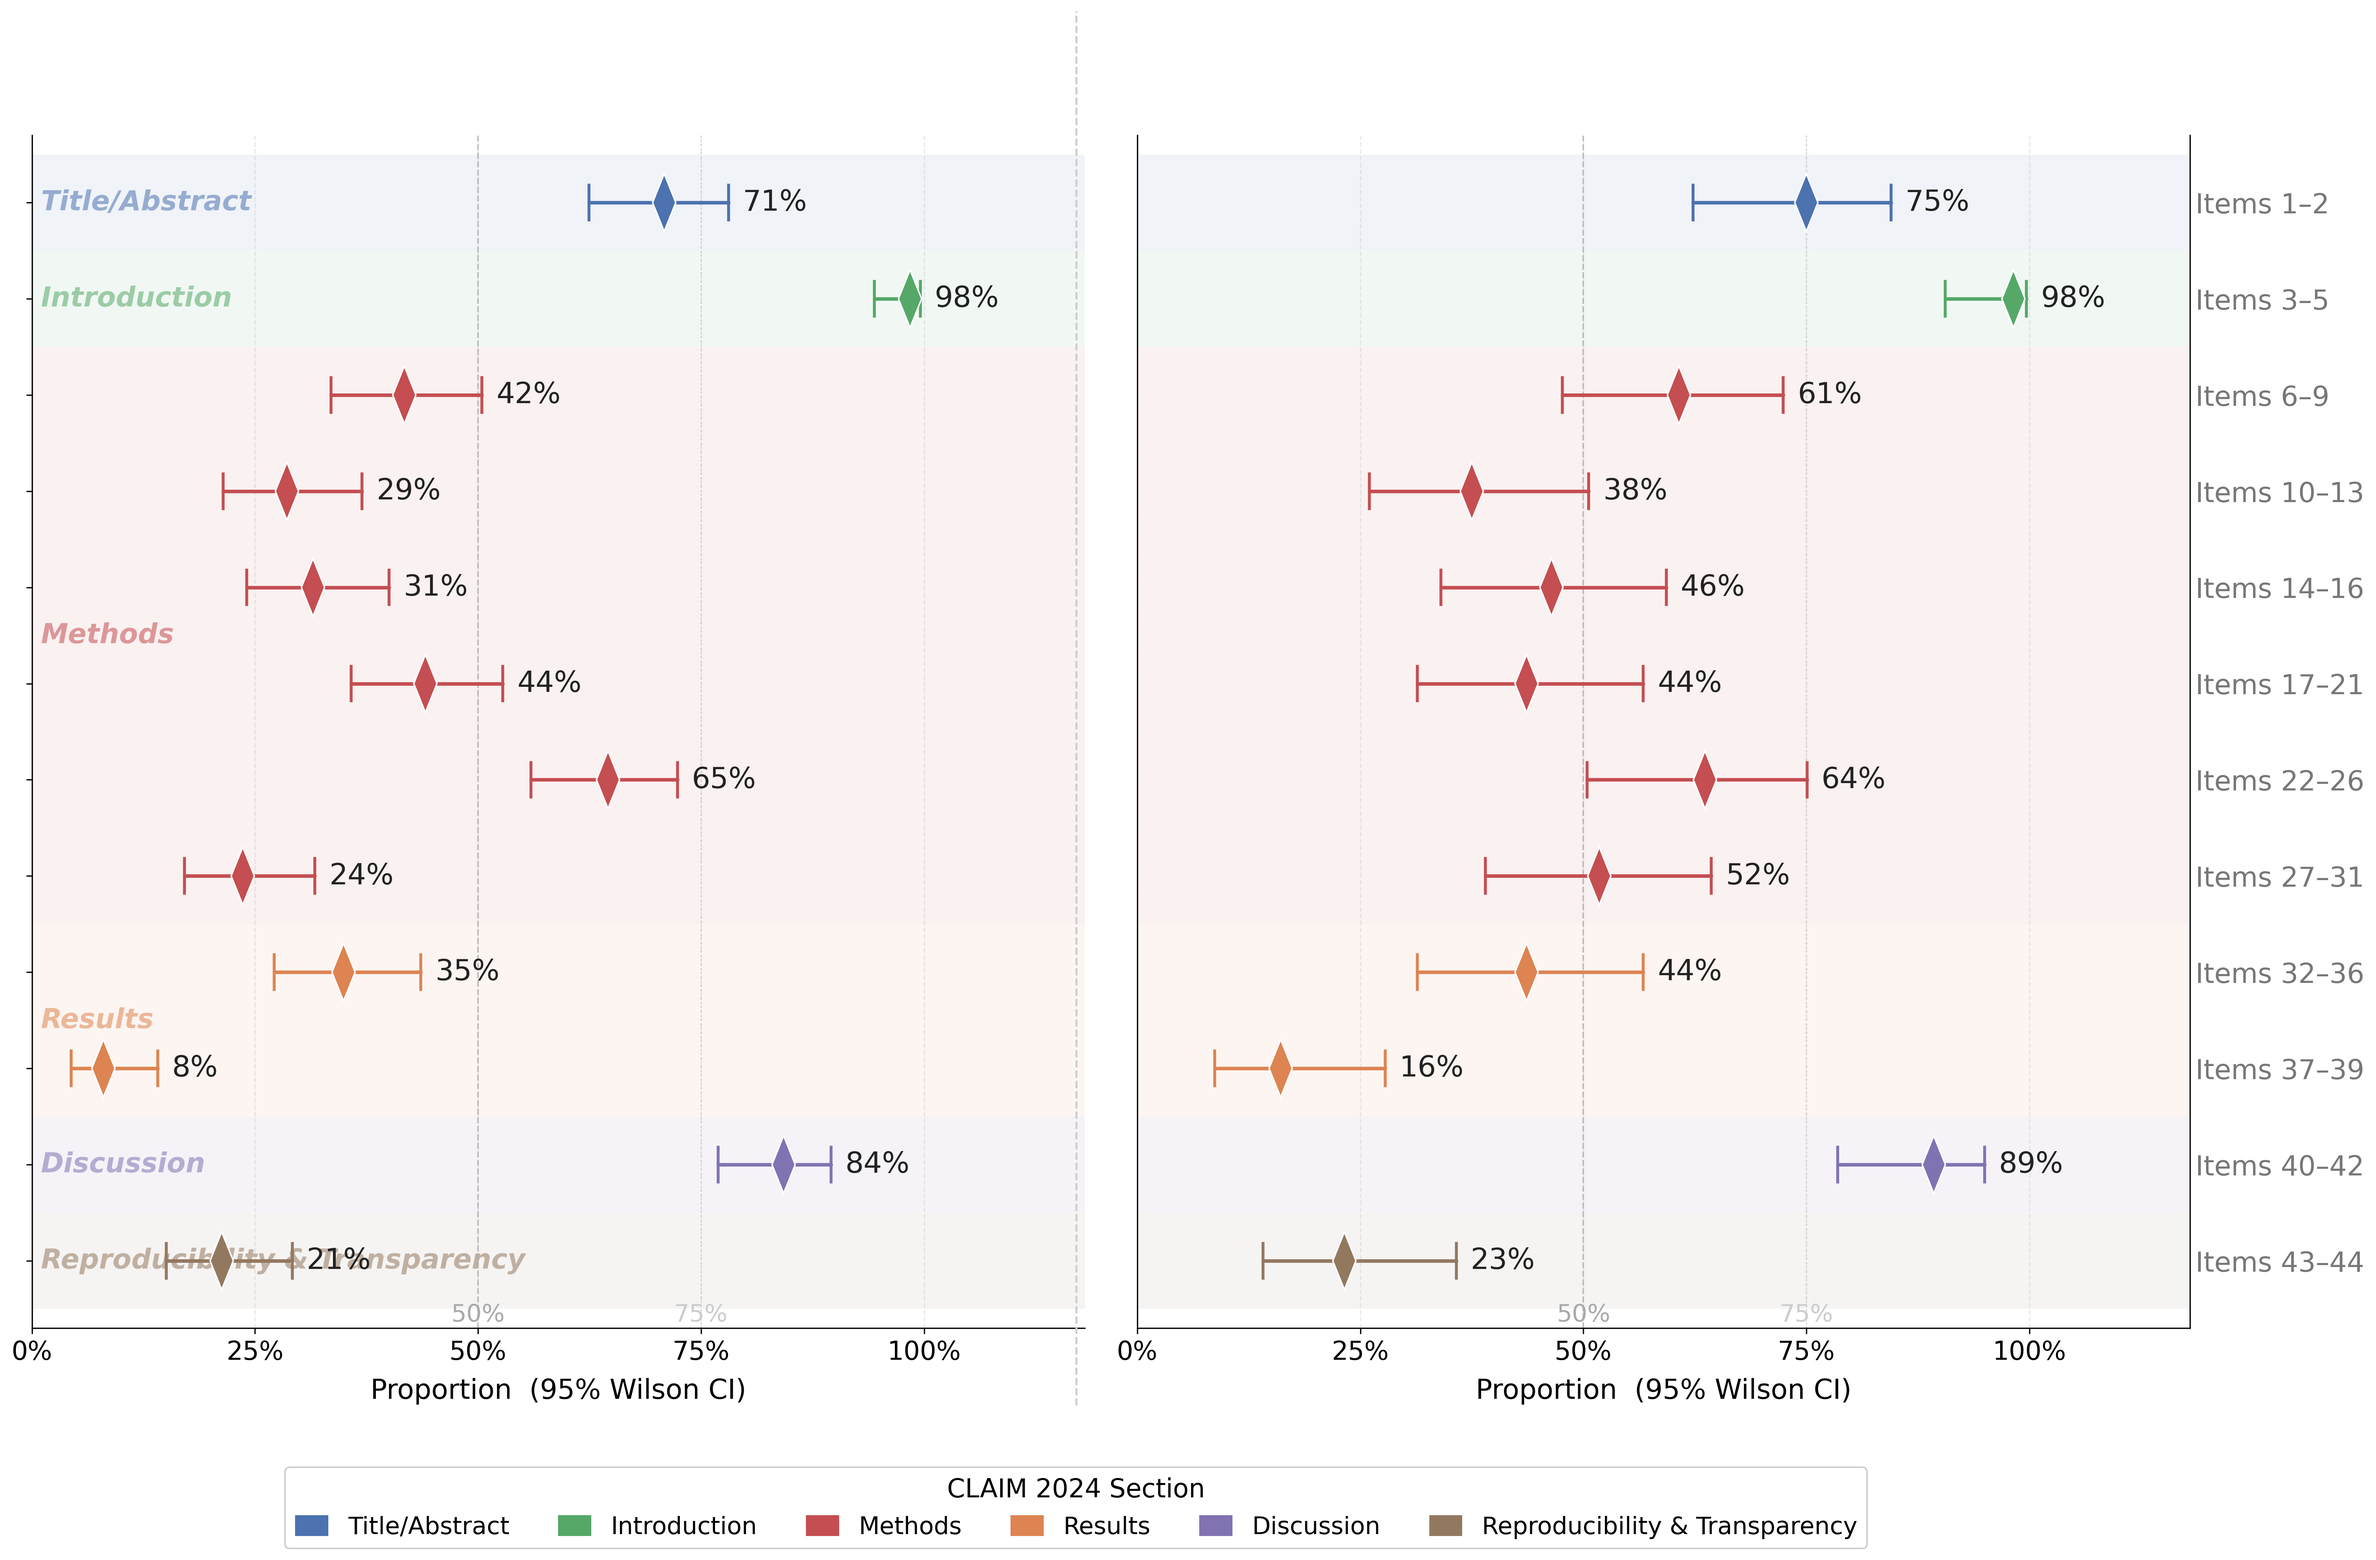
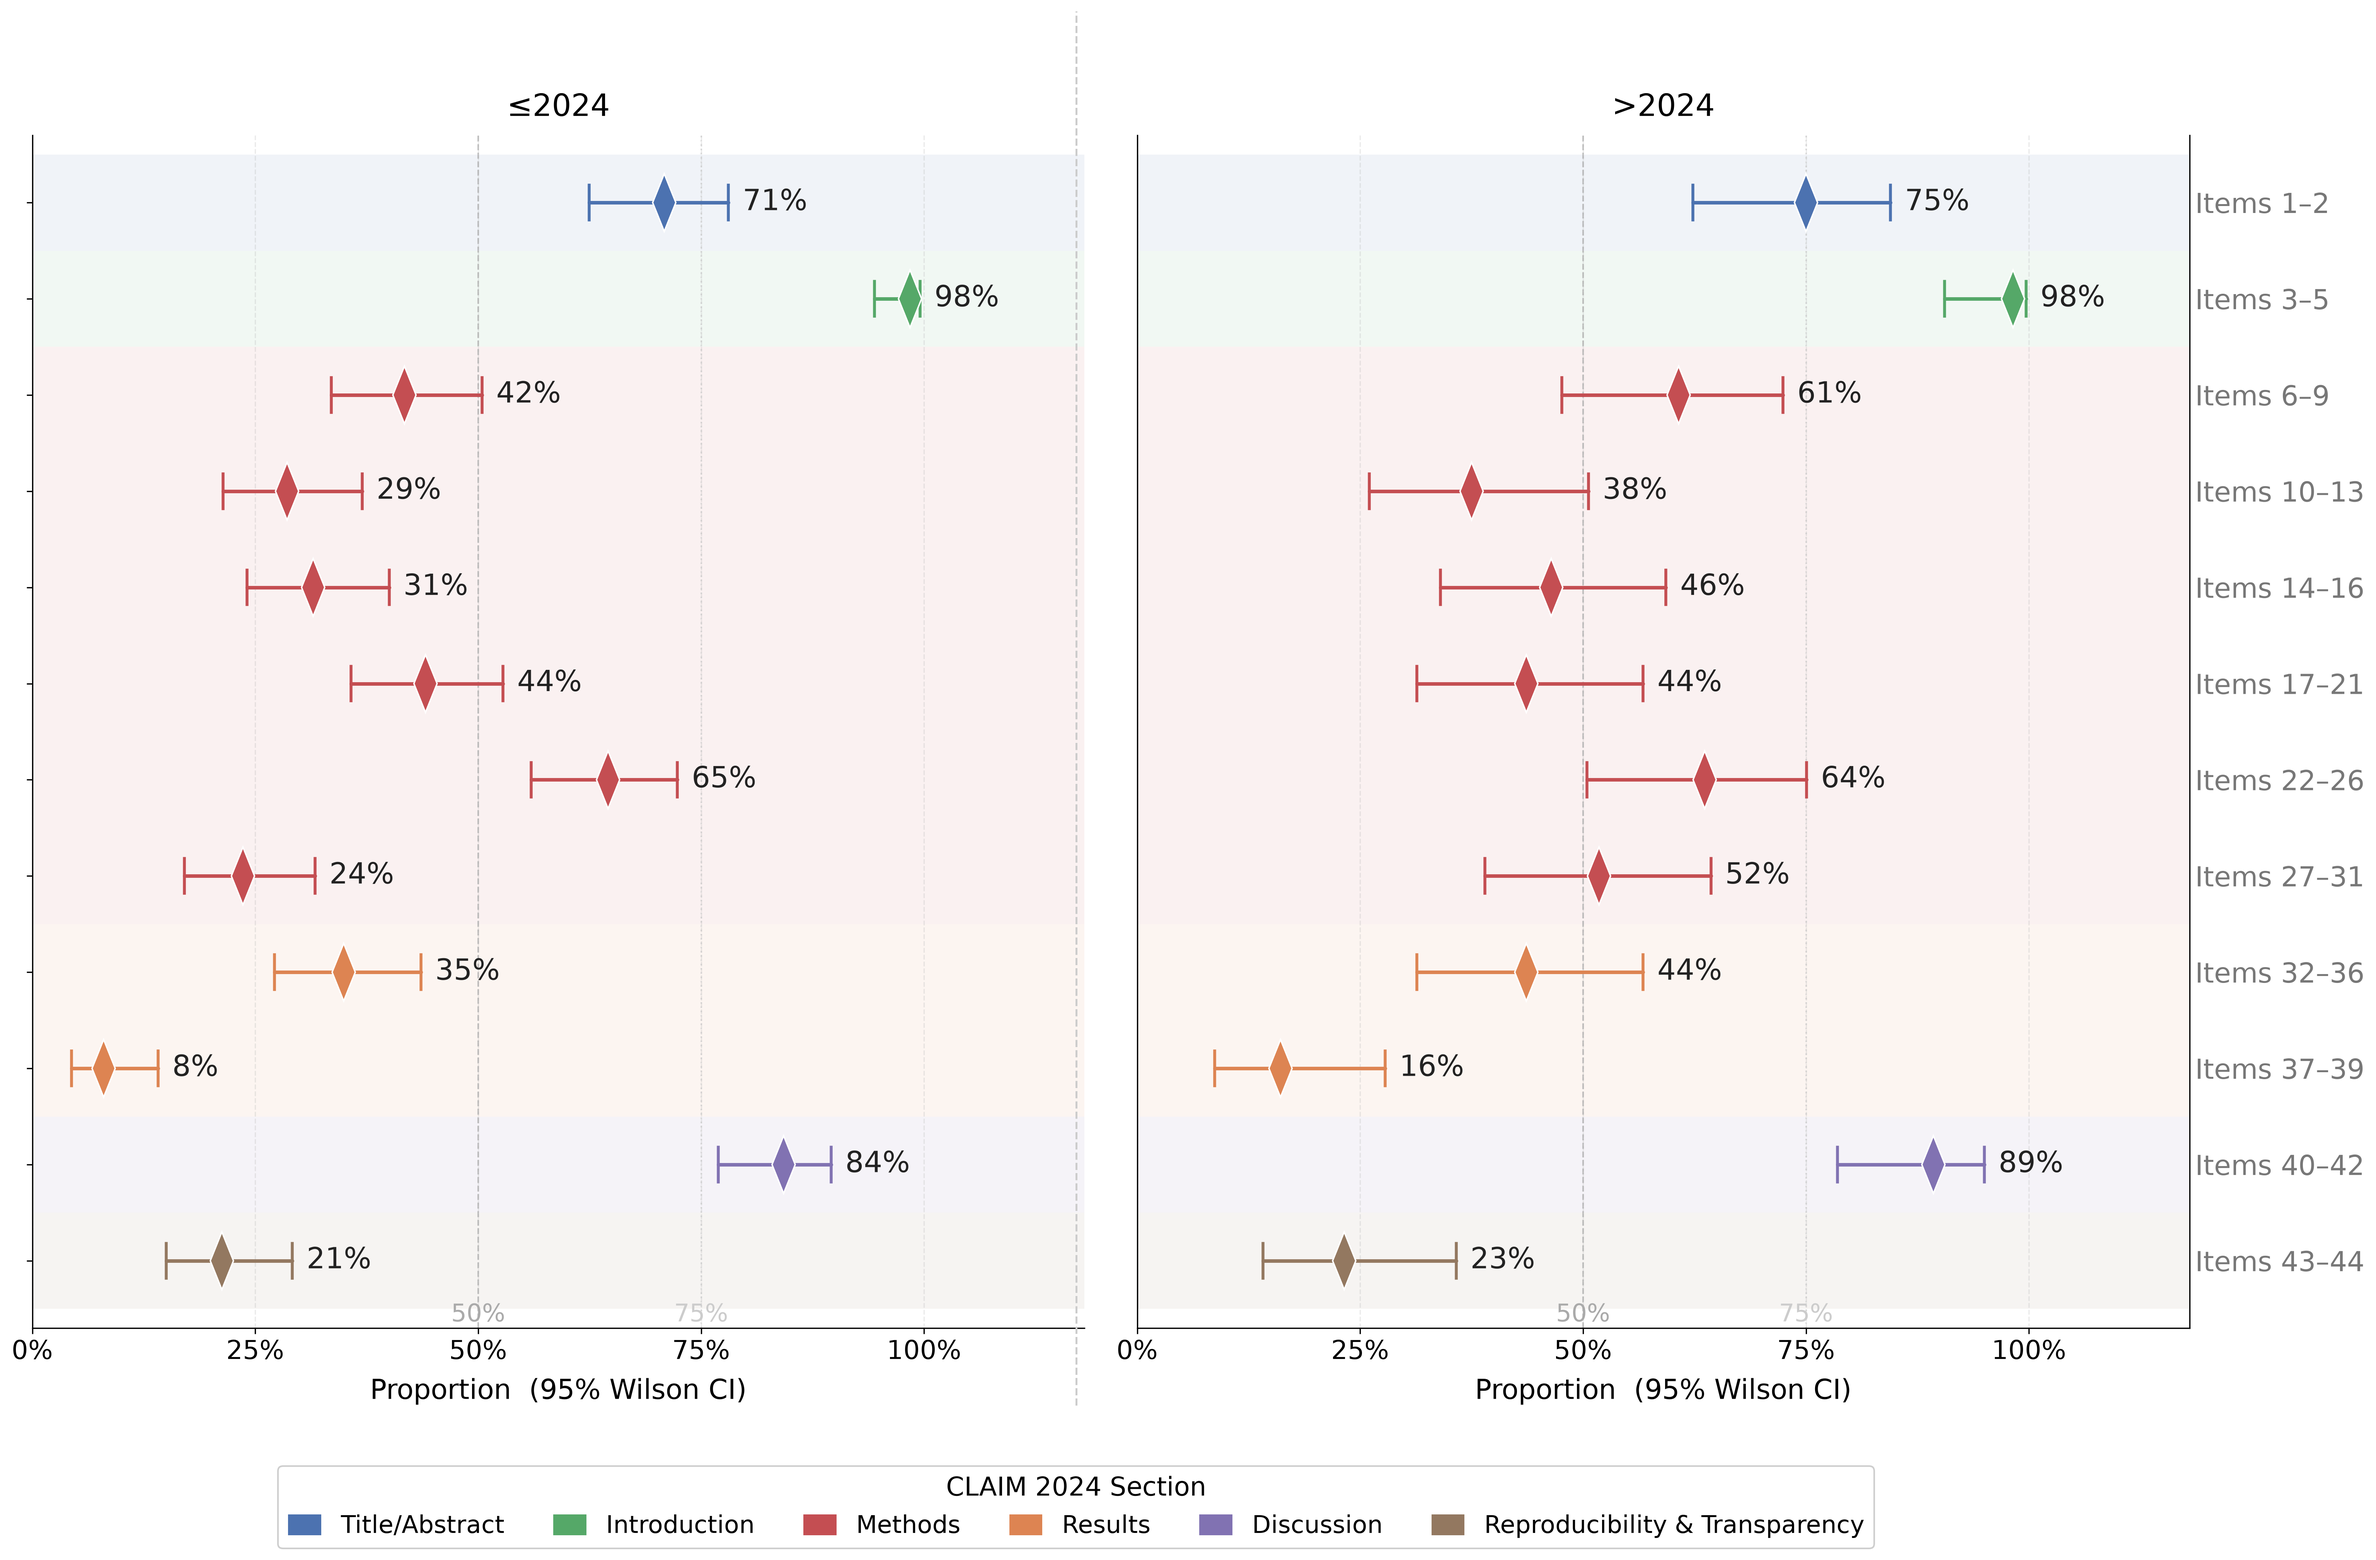
Label CLAIM 2024 comparison panels ≤2024 / >2024
Adds a per-panel title to the side-by-side forest plot so the two
cohorts are legible without cross-referencing the caption, and updates
the caption text to match the on-figure labels.

diff --git a/03-analysis.tex b/03-analysis.tex
@@ -240,7 +240,7 @@ Importantly, the lack of standardized benchmarks makes cross-study comparison fu
 \begin{figure*}[]
 \centering
 \includegraphics[width=1\linewidth]{figs/forest_plot_claim2024_comparison.pdf}
-\caption{CLAIM 2024 adherence across reporting clusters, compared before ($\leq 2024$, left panel) and after ($\geq 2025$, right panel) the release of the CLAIM 2024 checklist~\cite{Tejani2024}. The year 2024 was chosen as the cutoff because it is the publication year of the updated CLAIM 2024 guideline, so studies published from 2025 onward reflect the first full publication cycle in which the revised checklist could plausibly influence reporting practice. Diamonds mark the proportion of studies adhering to each cluster, with horizontal lines indicating 95\% Wilson confidence intervals; colors correspond to the CLAIM 2024 section shown in the legend. The item numbers listed along the right-hand axis (e.g., ``Items 1--2'') correspond to the individual CLAIM 2024 checklist items grouped within each cluster, as defined in~\cite{Tejani2024}.}
+\caption{CLAIM 2024 adherence across reporting clusters, compared before ($\leq 2024$, left panel, labeled ``$\leq$2024'') and after ($> 2024$, right panel, labeled ``$>$2024'') the release of the CLAIM 2024 checklist~\cite{Tejani2024}. The year 2024 was chosen as the cutoff because it is the publication year of the updated CLAIM 2024 guideline, so studies published from 2025 onward reflect the first full publication cycle in which the revised checklist could plausibly influence reporting practice. Diamonds mark the proportion of studies adhering to each cluster, with horizontal lines indicating 95\% Wilson confidence intervals; colors correspond to the CLAIM 2024 section shown in the legend. The item numbers listed along the right-hand axis (e.g., ``Items 1--2'') correspond to the individual CLAIM 2024 checklist items grouped within each cluster, as defined in~\cite{Tejani2024}.}
 \label{fig:forest_plot}
 \end{figure*}
 
